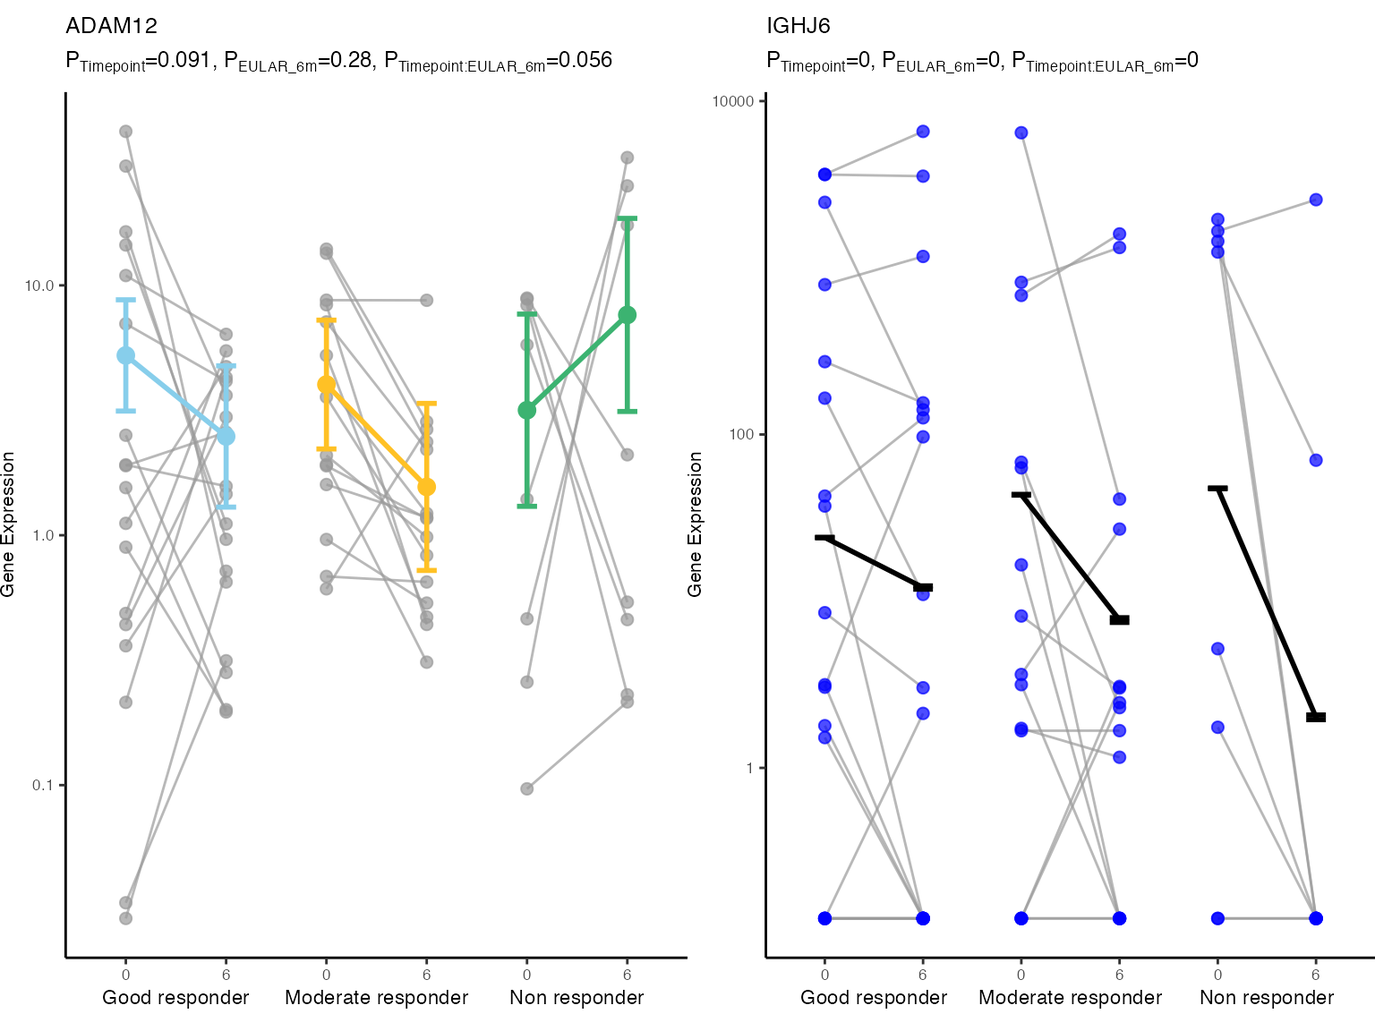
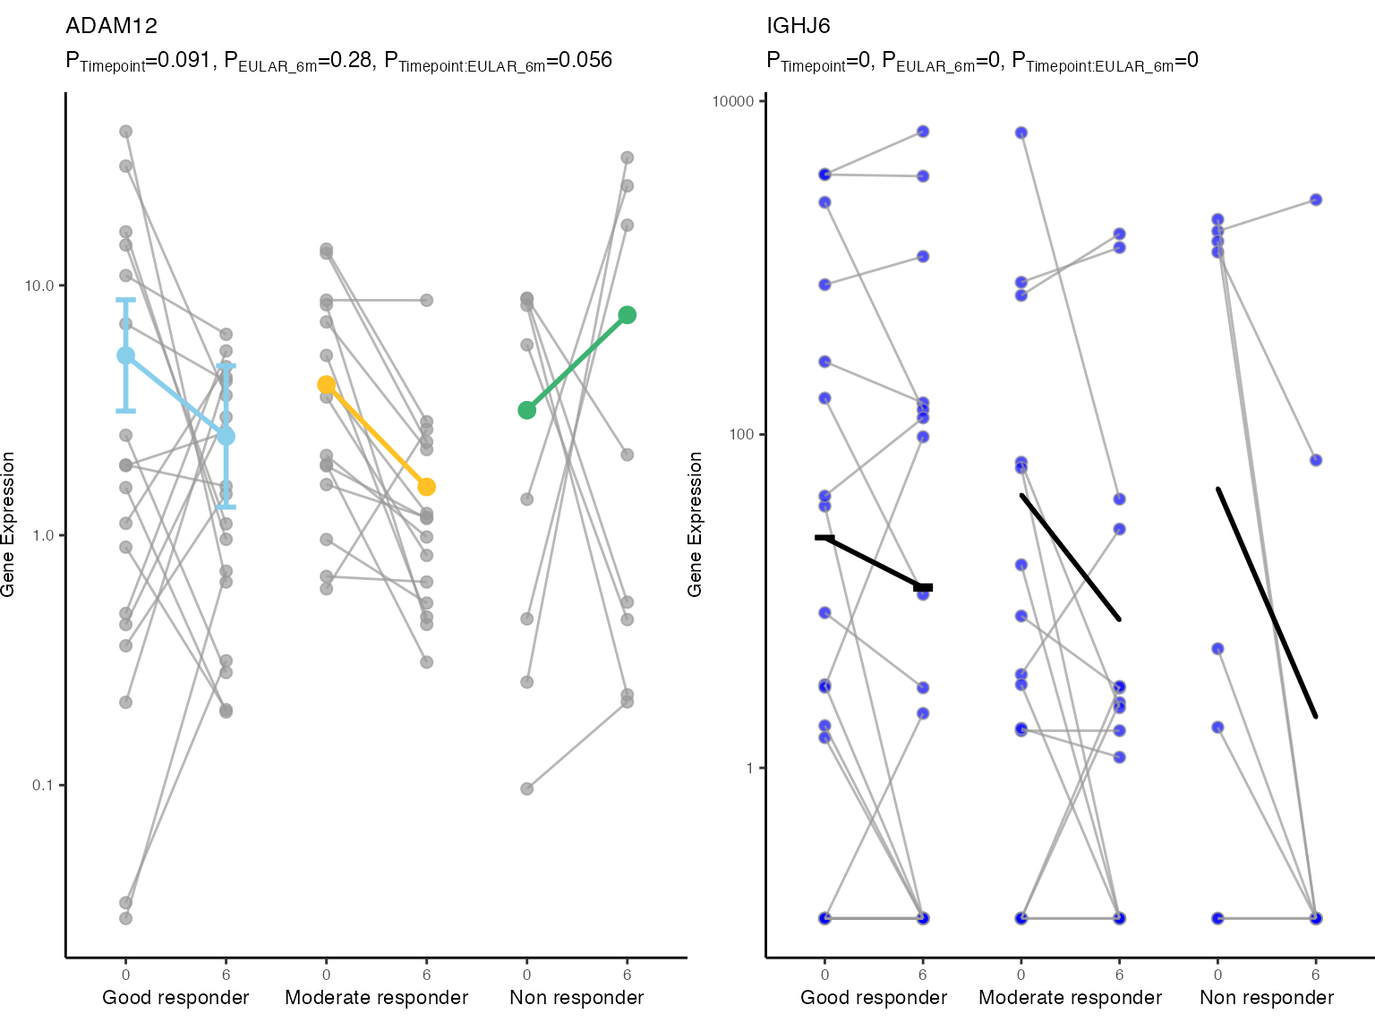
fix the paired plot colours

diff --git a/docs/articles/glmmSeq.html b/docs/articles/glmmSeq.html
@@ -38,7 +38,7 @@
       </button>
       <span class="navbar-brand">
         <a class="navbar-link" href="../index.html">glmmSeq</a>
-        <span class="version label label-default" data-toggle="tooltip" data-placement="bottom" title="Released version">0.1.0</span>
+        <span class="version label label-default" data-toggle="tooltip" data-placement="bottom" title="Released version">0.1.1</span>
       </span>
     </div>
 
@@ -97,7 +97,7 @@
       <h1 data-toc-skip>glmmSeq</h1>
                         <h4 class="author">Myles Lewis, Katriona Goldmann, Elisabetta Sciacca, Cankut Cubuk, Anna Surace</h4>
             
-            <h4 class="date">2021-03-30</h4>
+            <h4 class="date">2021-04-18</h4>
       
       <small class="dont-index">Source: <a href="https://github.com/KatrionaGoldmann/glmmSeq/blob/master/vignettes/glmmSeq.rmd"><code>vignettes/glmmSeq.rmd</code></a></small>
       <div class="hidden name"><code>glmmSeq.rmd</code></div>
@@ -113,7 +113,7 @@
   margin-right: auto;
 }
 </style>
-<p><a href="https://lifecycle.r-lib.org/articles/stages.html#stable"><img src="https://img.shields.io/badge/lifecycle-stable-blue.svg" alt="Lifecycle: Maturing"></a> <a href="https://choosealicense.com/licenses/mit/"><img src="https://img.shields.io/badge/License-MIT-mediumpurple.svg" alt="License: MIT"></a> <a href="https://CRAN.R-project.org/package=glmmSeq"><img src="https://www.r-pkg.org/badges/version/glmmSeq" alt="CRAN status"></a> <a href="https://CRAN.R-project.org/package=glmmSeq"><img src="https://cranlogs.r-pkg.org/badges/grand-total/glmmSeq?color=orange" alt="Downloads"></a> <a href="https://github.com/KatrionaGoldmann/glmmSeq/blob/master/NEWS.md"><img src="https://img.shields.io/badge/last%20git%20commit-2021--03--30-turquoise.svg" alt="2021-03-30"></a> <a href="https://GitHub.com/KatrionaGoldmann/glmmSeq/issues/"><img src="https://img.shields.io/github/issues/KatrionaGoldmann/glmmSeq.svg" alt="GitHub issues"></a> <a href="https://github.com/KatrionaGoldmann/glmmSeq"><img src="https://img.shields.io/travis/KatrionaGoldmann/glmmSeq.svg" alt="Travis"></a></p>
+<p><a href="https://lifecycle.r-lib.org/articles/stages.html#stable"><img src="https://img.shields.io/badge/lifecycle-stable-blue.svg" alt="Lifecycle: Maturing"></a> <a href="https://choosealicense.com/licenses/mit/"><img src="https://img.shields.io/badge/License-MIT-mediumpurple.svg" alt="License: MIT"></a> <a href="https://CRAN.R-project.org/package=glmmSeq"><img src="https://www.r-pkg.org/badges/version/glmmSeq" alt="CRAN status"></a> <a href="https://CRAN.R-project.org/package=glmmSeq"><img src="https://cranlogs.r-pkg.org/badges/grand-total/glmmSeq?color=orange" alt="Downloads"></a> <a href="https://github.com/KatrionaGoldmann/glmmSeq/blob/master/NEWS.md"><img src="https://img.shields.io/badge/last%20git%20commit-2021--04--18-turquoise.svg" alt="2021-04-18"></a> <a href="https://GitHub.com/KatrionaGoldmann/glmmSeq/issues/"><img src="https://img.shields.io/github/issues/KatrionaGoldmann/glmmSeq.svg" alt="GitHub issues"></a> <a href="https://github.com/KatrionaGoldmann/glmmSeq"><img src="https://img.shields.io/travis/KatrionaGoldmann/glmmSeq.svg" alt="Travis"></a></p>
 <div id="glmmseq" class="section level1">
 <h1 class="hasAnchor">
 <a href="#glmmseq" class="anchor"></a>glmmSeq</h1>
@@ -3042,7 +3042,7 @@ div.blue { background-color:#e6f0ff; border-radius: 5px; padding: 10px; text-ali
                   cores <span class="op">=</span> <span class="fl">1</span><span class="op">)</span></code></pre></div>
 <pre><code>## 
 ## n = 124 samples, 82 individuals
-## Time difference of 12.05926 secs</code></pre>
+## Time difference of 22.63919 secs</code></pre>
 <p>or alternatively using two-factor classification with EULAR_binary:</p>
 <div class="sourceCode" id="cb20"><pre class="downlit sourceCode r">
 <code class="sourceCode R"><span class="va">results2</span> <span class="op">&lt;-</span> <span class="fu"><a href="../reference/glmmSeq.html">glmmSeq</a></span><span class="op">(</span><span class="op">~</span> <span class="va">Timepoint</span> <span class="op">*</span> <span class="va">EULAR_binary</span> <span class="op">+</span> <span class="op">(</span><span class="fl">1</span> <span class="op">|</span> <span class="va">PATID</span><span class="op">)</span>,
@@ -3055,7 +3055,7 @@ div.blue { background-color:#e6f0ff; border-radius: 5px; padding: 10px; text-ali
                   cores <span class="op">=</span> <span class="fl">1</span><span class="op">)</span></code></pre></div>
 <pre><code>## 
 ## n = 124 samples, 82 individuals
-## Time difference of 10.53417 secs</code></pre>
+## Time difference of 20.82469 secs</code></pre>
 <div id="outputs" class="section level2">
 <h2 class="hasAnchor">
 <a href="#outputs" class="anchor"></a>Outputs</h2>
@@ -8782,7 +8782,7 @@ LILRB3
 <p>Plots can be viewed using either ggplot or base graphics. We can start looking at the gene with the most significant interaction <em>IGHV3-23</em>:</p>
 <div class="sourceCode" id="cb32"><pre class="downlit sourceCode r">
 <code class="sourceCode R"><span class="va">plotColours</span> <span class="op">&lt;-</span> <span class="fu"><a href="https://rdrr.io/r/base/c.html">c</a></span><span class="op">(</span><span class="st">"skyblue"</span>, <span class="st">"goldenrod1"</span>, <span class="st">"mediumseagreen"</span><span class="op">)</span>
-<span class="va">modColours</span> <span class="op">&lt;-</span> <span class="fu"><a href="https://rdrr.io/r/base/rep.html">rep</a></span><span class="op">(</span><span class="fu"><a href="https://rdrr.io/r/base/c.html">c</a></span><span class="op">(</span><span class="st">"dodgerblue3"</span>, <span class="st">"goldenrod3"</span>, <span class="st">"seagreen4"</span><span class="op">)</span>, each<span class="op">=</span><span class="fl">2</span><span class="op">)</span>
+<span class="va">modColours</span> <span class="op">&lt;-</span> <span class="fu"><a href="https://rdrr.io/r/base/c.html">c</a></span><span class="op">(</span><span class="st">"dodgerblue3"</span>, <span class="st">"goldenrod3"</span>, <span class="st">"seagreen4"</span><span class="op">)</span>
 
 <span class="fu"><a href="../reference/pairedPlot.html">pairedPlot</a></span><span class="op">(</span>glmmResult<span class="op">=</span><span class="va">results</span>,
            geneName <span class="op">=</span> <span class="st">"IGHV3-23"</span>,
@@ -8794,11 +8794,12 @@ LILRB3
            colours <span class="op">=</span> <span class="va">plotColours</span>,
            modelColour <span class="op">=</span> <span class="va">modColours</span>,
            modelLineColour <span class="op">=</span> <span class="va">modColours</span>,
+           lineColour <span class="op">=</span> <span class="st">"grey60"</span>,
            fontSize<span class="op">=</span><span class="fl">10</span>,
            x2Offset <span class="op">=</span> <span class="fl">8</span>,
            logTransform<span class="op">=</span><span class="cn">TRUE</span>,
            addViolin <span class="op">=</span> <span class="cn">TRUE</span>,
-           pairedOnly <span class="op">=</span> <span class="cn">FALSE</span><span class="op">)</span></code></pre></div>
+           pairedOnly <span class="op">=</span> <span class="cn">FALSE</span><span class="op">)</span> </code></pre></div>
 <p><img src="glmmSeq_files/figure-html/unnamed-chunk-24-1.png" width="768"></p>
 <p>Or using base graphics, with or without the model fit overlaid:</p>
 <div class="sourceCode" id="cb33"><pre class="downlit sourceCode r">
@@ -8813,7 +8814,10 @@ LILRB3
                 graphics<span class="op">=</span><span class="st">"base"</span>,
                 fontSize<span class="op">=</span><span class="fl">0.65</span>,
                 colours<span class="op">=</span><span class="fu"><a href="https://rdrr.io/r/base/c.html">c</a></span><span class="op">(</span><span class="st">"coral"</span>, <span class="st">"mediumseagreen"</span><span class="op">)</span>,
-                modelSize <span class="op">=</span> <span class="fl">1</span><span class="op">)</span>
+                addModel<span class="op">=</span><span class="cn">T</span>,
+                modelColour <span class="op">=</span> <span class="fu"><a href="https://rdrr.io/r/base/c.html">c</a></span><span class="op">(</span><span class="st">"coral"</span>, <span class="st">"mediumseagreen"</span><span class="op">)</span>,
+                modelLineColour <span class="op">=</span> <span class="st">"black"</span>,
+                modelSize <span class="op">=</span> <span class="fl">2</span><span class="op">)</span>
 
 <span class="va">p2</span> <span class="op">=</span> <span class="fu"><a href="../reference/pairedPlot.html">pairedPlot</a></span><span class="op">(</span>glmmResult<span class="op">=</span><span class="va">results</span>,
                 geneName <span class="op">=</span> <span class="st">"EMILIN3"</span>,
@@ -8883,18 +8887,19 @@ LILRB3
 <p><img src="glmmSeq_files/figure-html/unnamed-chunk-27-1.png" width="768"></p>
 <p>Genes on the x-y plane, such as <em>IGHJ6</em>, will have associations in the same direction whereas genes on the x=-y axis have association in <em>opposite</em> directions, such as <em>ADAM12</em>. This allows us to pick out genes of potential interest which we can have another closer look at:</p>
 <div class="sourceCode" id="cb37"><pre class="downlit sourceCode r">
-<code class="sourceCode R"><span class="va">p1</span> <span class="op">&lt;-</span> <span class="fu"><a href="../reference/pairedPlot.html">pairedPlot</a></span><span class="op">(</span>glmmResult<span class="op">=</span><span class="va">results</span>,
+<code class="sourceCode R"><span class="va">p1</span><span class="op">&lt;-</span> <span class="fu"><a href="../reference/pairedPlot.html">pairedPlot</a></span><span class="op">(</span>glmmResult<span class="op">=</span><span class="va">results</span>,
                  geneName <span class="op">=</span> <span class="st">"ADAM12"</span>,
                  x1Label <span class="op">=</span> <span class="st">"Timepoint"</span>,
                  x2Label<span class="op">=</span><span class="st">"EULAR_6m"</span>,
                  IDColumn <span class="op">=</span> <span class="st">"PATID"</span>,
                  graphics<span class="op">=</span><span class="st">"ggplot"</span>,
                  colours <span class="op">=</span> <span class="st">"grey60"</span>,
-                 modelColour <span class="op">=</span> <span class="fu"><a href="https://rdrr.io/r/base/rep.html">rep</a></span><span class="op">(</span><span class="va">plotColours</span>, each<span class="op">=</span><span class="fl">2</span><span class="op">)</span>,
-                 modelLineColour <span class="op">=</span><span class="fu"><a href="https://rdrr.io/r/base/rep.html">rep</a></span><span class="op">(</span><span class="va">plotColours</span>, each<span class="op">=</span><span class="fl">2</span><span class="op">)</span>,
+                 modelColour <span class="op">=</span> <span class="va">plotColours</span>, 
+                 modelLineColour <span class="op">=</span>  <span class="va">plotColours</span>, 
                  addViolins<span class="op">=</span><span class="cn">FALSE</span>,
                  fontSize<span class="op">=</span><span class="fl">8</span>,
-                 logTransform<span class="op">=</span><span class="cn">T</span><span class="op">)</span> <span class="op">+</span> <span class="fu">theme</span><span class="op">(</span>plot.subtitle<span class="op">=</span><span class="fu">element_text</span><span class="op">(</span>size<span class="op">=</span><span class="fl">9</span><span class="op">)</span><span class="op">)</span>
+                 logTransform<span class="op">=</span><span class="cn">T</span><span class="op">)</span> <span class="op">+</span>
+  <span class="fu">theme</span><span class="op">(</span>plot.subtitle<span class="op">=</span><span class="fu">element_text</span><span class="op">(</span>size<span class="op">=</span><span class="fl">9</span><span class="op">)</span><span class="op">)</span>
 
 <span class="va">p2</span> <span class="op">&lt;-</span> <span class="fu"><a href="../reference/pairedPlot.html">pairedPlot</a></span><span class="op">(</span>glmmResult<span class="op">=</span><span class="va">results</span>,
                  geneName <span class="op">=</span> <span class="st">"IGHJ6"</span>,
@@ -8903,10 +8908,11 @@ LILRB3
                  IDColumn <span class="op">=</span> <span class="st">"PATID"</span>,
                  graphics<span class="op">=</span><span class="st">"ggplot"</span>,
                  addViolins <span class="op">=</span> <span class="cn">FALSE</span>,
-                 colours <span class="op">=</span> <span class="fu"><a href="https://rdrr.io/r/base/c.html">c</a></span><span class="op">(</span><span class="st">"blue"</span><span class="op">)</span>,
+                 colours <span class="op">=</span> <span class="st">"blue"</span>,
                  fontSize<span class="op">=</span><span class="fl">8</span>,
                  modelSize<span class="op">=</span><span class="fl">0.1</span>,
-                 logTransform<span class="op">=</span><span class="cn">T</span><span class="op">)</span> <span class="op">+</span> <span class="fu">theme</span><span class="op">(</span>plot.subtitle<span class="op">=</span><span class="fu">element_text</span><span class="op">(</span>size<span class="op">=</span><span class="fl">9</span><span class="op">)</span><span class="op">)</span>
+                 logTransform<span class="op">=</span><span class="cn">T</span><span class="op">)</span> <span class="op">+</span>
+  <span class="fu">theme</span><span class="op">(</span>plot.subtitle<span class="op">=</span><span class="fu">element_text</span><span class="op">(</span>size<span class="op">=</span><span class="fl">9</span><span class="op">)</span><span class="op">)</span>
 
 <span class="fu"><a href="https://rpkgs.datanovia.com/ggpubr/reference/ggarrange.html">ggarrange</a></span><span class="op">(</span><span class="va">p1</span>, <span class="va">p2</span>, ncol<span class="op">=</span><span class="fl">2</span><span class="op">)</span></code></pre></div>
 <p><img src="glmmSeq_files/figure-html/unnamed-chunk-28-1.png" width="768"></p>
@@ -8963,7 +8969,7 @@ LILRB3
 ## To cite package 'glmmSeq' in publications use:
 ## 
 ##   Myles Lewis, Katriona Goldmann and Elisabetta Sciacca (NA). glmmSeq: General Linear
-##   Mixed Models for Gene-Level Differential Expression. R package version 0.1.0.
+##   Mixed Models for Gene-Level Differential Expression. R package version 0.1.1.
 ##   https://github.com/KatrionaGoldmann/glmmSeq
 ## 
 ## A BibTeX entry for LaTeX users is
@@ -8971,7 +8977,7 @@ LILRB3
 ##   @Manual{,
 ##     title = {glmmSeq: General Linear Mixed Models for Gene-Level Differential Expression},
 ##     author = {Myles Lewis and Katriona Goldmann and Elisabetta Sciacca},
-##     note = {R package version 0.1.0},
+##     note = {R package version 0.1.1},
 ##     url = {https://github.com/KatrionaGoldmann/glmmSeq},
 ##   }</code></pre>
 </div>

diff --git a/docs/reference/pairedPlot.html b/docs/reference/pairedPlot.html
@@ -80,7 +80,7 @@
       </button>
       <span class="navbar-brand">
         <a class="navbar-link" href="../index.html">glmmSeq</a>
-        <span class="version label label-default" data-toggle="tooltip" data-placement="bottom" title="Released version">0.1.0</span>
+        <span class="version label label-default" data-toggle="tooltip" data-placement="bottom" title="Released version">0.1.1</span>
       </span>
     </div>
 
@@ -167,7 +167,7 @@
   modelSize <span class='op'>=</span> <span class='fl'>3</span>,
   modelColour <span class='op'>=</span> <span class='st'>"black"</span>,
   modelLineSize <span class='op'>=</span> <span class='fl'>1</span>,
-  modelLineColour <span class='op'>=</span> <span class='st'>"black"</span>,
+  modelLineColour <span class='op'>=</span> <span class='cn'>NULL</span>,
   addBox <span class='op'>=</span> <span class='cn'>FALSE</span>,
   addViolins <span class='op'>=</span> <span class='cn'>TRUE</span>,
   violinWidth <span class='op'>=</span> <span class='fl'>0.5</span>,
@@ -221,11 +221,12 @@ to be paired using the ID.</p></td>
     </tr>
     <tr>
       <th>colours</th>
-      <td><p>The marker colours (default='red')</p></td>
+      <td><p>The marker colours (default='red') as vector or named vector</p></td>
     </tr>
     <tr>
       <th>lineColour</th>
-      <td><p>The line colours (default='grey60')</p></td>
+      <td><p>The line colours (default='grey60') as vector or named
+vector</p></td>
     </tr>
     <tr>
       <th>markerSize</th>
@@ -261,15 +262,18 @@ to be paired using the ID.</p></td>
     </tr>
     <tr>
       <th>modelColour</th>
-      <td><p>Colour of model fit markers (default="black")</p></td>
+      <td><p>Colour of model fit markers (default="black") as vector
+or named vector</p></td>
     </tr>
     <tr>
       <th>modelLineSize</th>
-      <td><p>Size of model points (default=1)</p></td>
+      <td><p>Size of model points (default=1) as vector or named
+vector</p></td>
     </tr>
     <tr>
       <th>modelLineColour</th>
-      <td><p>Colour of model fit lines (default="black")</p></td>
+      <td><p>Colour of model fit lines. If NULL same colours as
+modelColour used (default=NULL).</p></td>
     </tr>
     <tr>
       <th>addBox</th>

diff --git a/docs/reference/maPlot.html b/docs/reference/maPlot.html
@@ -80,7 +80,7 @@
       </button>
       <span class="navbar-brand">
         <a class="navbar-link" href="../index.html">glmmSeq</a>
-        <span class="version label label-default" data-toggle="tooltip" data-placement="bottom" title="Released version">0.1.0</span>
+        <span class="version label label-default" data-toggle="tooltip" data-placement="bottom" title="Released version">0.1.1</span>
       </span>
     </div>
 
@@ -253,7 +253,7 @@ figure</p>
 #&gt; n = 149 samples, 105 individuals</div><div class='output co'>#&gt; <span class='warning'>Warning: unable to evaluate scaled gradient</span></div><div class='output co'>#&gt; <span class='warning'>Warning: Model failed to converge: degenerate  Hessian with 2 negative eigenvalues</span></div><div class='output co'>#&gt; <span class='warning'>Warning: variance-covariance matrix computed from finite-difference Hessian is</span>
 #&gt; <span class='warning'>not positive definite or contains NA values: falling back to var-cov estimated from RX</span></div><div class='output co'>#&gt; <span class='warning'>Warning: variance-covariance matrix computed from finite-difference Hessian is</span>
 #&gt; <span class='warning'>not positive definite or contains NA values: falling back to var-cov estimated from RX</span></div><div class='output co'>#&gt; <span class='warning'>Warning: variance-covariance matrix computed from finite-difference Hessian is</span>
-#&gt; <span class='warning'>not positive definite or contains NA values: falling back to var-cov estimated from RX</span></div><div class='output co'>#&gt; Time difference of 0.860867 secs</div><div class='input'>
+#&gt; <span class='warning'>not positive definite or contains NA values: falling back to var-cov estimated from RX</span></div><div class='output co'>#&gt; Time difference of 1.590468 secs</div><div class='input'>
 <span class='va'>plots</span> <span class='op'>&lt;-</span> <span class='fu'>maPlot</span><span class='op'>(</span><span class='va'>resultTable</span>,
                 x1Label<span class='op'>=</span><span class='st'>'Timepoint'</span>,
                 x2Label<span class='op'>=</span><span class='st'>'EULAR_6m'</span>,

diff --git a/docs/news/index.html b/docs/news/index.html
@@ -79,7 +79,7 @@
       </button>
       <span class="navbar-brand">
         <a class="navbar-link" href="../index.html">glmmSeq</a>
-        <span class="version label label-default" data-toggle="tooltip" data-placement="bottom" title="Released version">0.1.0</span>
+        <span class="version label label-default" data-toggle="tooltip" data-placement="bottom" title="Released version">0.1.1</span>
       </span>
     </div>
 
@@ -138,9 +138,21 @@
       <small>Source: <a href='https://github.com/KatrionaGoldmann/glmmSeq/blob/master/NEWS.md'><code>NEWS.md</code></a></small>
     </div>
 
+    <div id="glmmseq-v011" class="section level1">
+<h1 class="page-header" data-toc-text="0.1.1">
+<a href="#glmmseq-v011" class="anchor"></a>glmmSeq v0.1.1<small> Unreleased </small>
+</h1>
+<div id="bug-fixes" class="section level5">
+<h5 class="hasAnchor">
+<a href="#bug-fixes" class="anchor"></a>Bug Fixes</h5>
+<ul>
+<li>Fix colours in paired_plots</li>
+</ul>
+</div>
+</div>
     <div id="glmmseq-v010" class="section level1">
 <h1 class="page-header" data-toc-text="0.1.0">
-<a href="#glmmseq-v010" class="anchor"></a>glmmSeq v0.1.0<small> Unreleased </small>
+<a href="#glmmseq-v010" class="anchor"></a>glmmSeq v0.1.0<small> 2021-03-30 </small>
 </h1>
 <div id="16032021" class="section level6">
 <h6>16/03/2021</h6>
@@ -153,9 +165,9 @@
 <li>Add option (returnList) to return glmmSeq output as list (to make error catching easier)</li>
 </ul>
 </div>
-<div id="bug-fixes" class="section level5">
+<div id="bug-fixes-1" class="section level5">
 <h5 class="hasAnchor">
-<a href="#bug-fixes" class="anchor"></a>Bug Fixes</h5>
+<a href="#bug-fixes-1" class="anchor"></a>Bug Fixes</h5>
 <ul>
 <li>Fix missing plots in vignette</li>
 </ul>

diff --git a/docs/reference/tpm.html b/docs/reference/tpm.html
@@ -81,7 +81,7 @@ biopsies." />
       </button>
       <span class="navbar-brand">
         <a class="navbar-link" href="../index.html">glmmSeq</a>
-        <span class="version label label-default" data-toggle="tooltip" data-placement="bottom" title="Released version">0.1.0</span>
+        <span class="version label label-default" data-toggle="tooltip" data-placement="bottom" title="Released version">0.1.1</span>
       </span>
     </div>
 

diff --git a/docs/articles/index.html b/docs/articles/index.html
@@ -79,7 +79,7 @@
       </button>
       <span class="navbar-brand">
         <a class="navbar-link" href="../index.html">glmmSeq</a>
-        <span class="version label label-default" data-toggle="tooltip" data-placement="bottom" title="Released version">0.1.0</span>
+        <span class="version label label-default" data-toggle="tooltip" data-placement="bottom" title="Released version">0.1.1</span>
       </span>
     </div>
 

diff --git a/docs/reference/GlmmSeq-class.html b/docs/reference/GlmmSeq-class.html
@@ -80,7 +80,7 @@
       </button>
       <span class="navbar-brand">
         <a class="navbar-link" href="../index.html">glmmSeq</a>
-        <span class="version label label-default" data-toggle="tooltip" data-placement="bottom" title="Released version">0.1.0</span>
+        <span class="version label label-default" data-toggle="tooltip" data-placement="bottom" title="Released version">0.1.1</span>
       </span>
     </div>
 

diff --git a/docs/reference/fcPlot.html b/docs/reference/fcPlot.html
@@ -80,7 +80,7 @@
       </button>
       <span class="navbar-brand">
         <a class="navbar-link" href="../index.html">glmmSeq</a>
-        <span class="version label label-default" data-toggle="tooltip" data-placement="bottom" title="Released version">0.1.0</span>
+        <span class="version label label-default" data-toggle="tooltip" data-placement="bottom" title="Released version">0.1.1</span>
       </span>
     </div>
 

diff --git a/docs/reference/glmerApply.html b/docs/reference/glmerApply.html
@@ -80,7 +80,7 @@
       </button>
       <span class="navbar-brand">
         <a class="navbar-link" href="../index.html">glmmSeq</a>
-        <span class="version label label-default" data-toggle="tooltip" data-placement="bottom" title="Released version">0.1.0</span>
+        <span class="version label label-default" data-toggle="tooltip" data-placement="bottom" title="Released version">0.1.1</span>
       </span>
     </div>
 

diff --git a/docs/reference/glmmGene.html b/docs/reference/glmmGene.html
@@ -80,7 +80,7 @@
       </button>
       <span class="navbar-brand">
         <a class="navbar-link" href="../index.html">glmmSeq</a>
-        <span class="version label label-default" data-toggle="tooltip" data-placement="bottom" title="Released version">0.1.0</span>
+        <span class="version label label-default" data-toggle="tooltip" data-placement="bottom" title="Released version">0.1.1</span>
       </span>
     </div>
 

diff --git a/docs/reference/glmmQvals.html b/docs/reference/glmmQvals.html
@@ -80,7 +80,7 @@
       </button>
       <span class="navbar-brand">
         <a class="navbar-link" href="../index.html">glmmSeq</a>
-        <span class="version label label-default" data-toggle="tooltip" data-placement="bottom" title="Released version">0.1.0</span>
+        <span class="version label label-default" data-toggle="tooltip" data-placement="bottom" title="Released version">0.1.1</span>
       </span>
     </div>
 

diff --git a/docs/reference/glmmSeq.html b/docs/reference/glmmSeq.html
@@ -80,7 +80,7 @@
       </button>
       <span class="navbar-brand">
         <a class="navbar-link" href="../index.html">glmmSeq</a>
-        <span class="version label label-default" data-toggle="tooltip" data-placement="bottom" title="Released version">0.1.0</span>
+        <span class="version label label-default" data-toggle="tooltip" data-placement="bottom" title="Released version">0.1.1</span>
       </span>
     </div>
 
